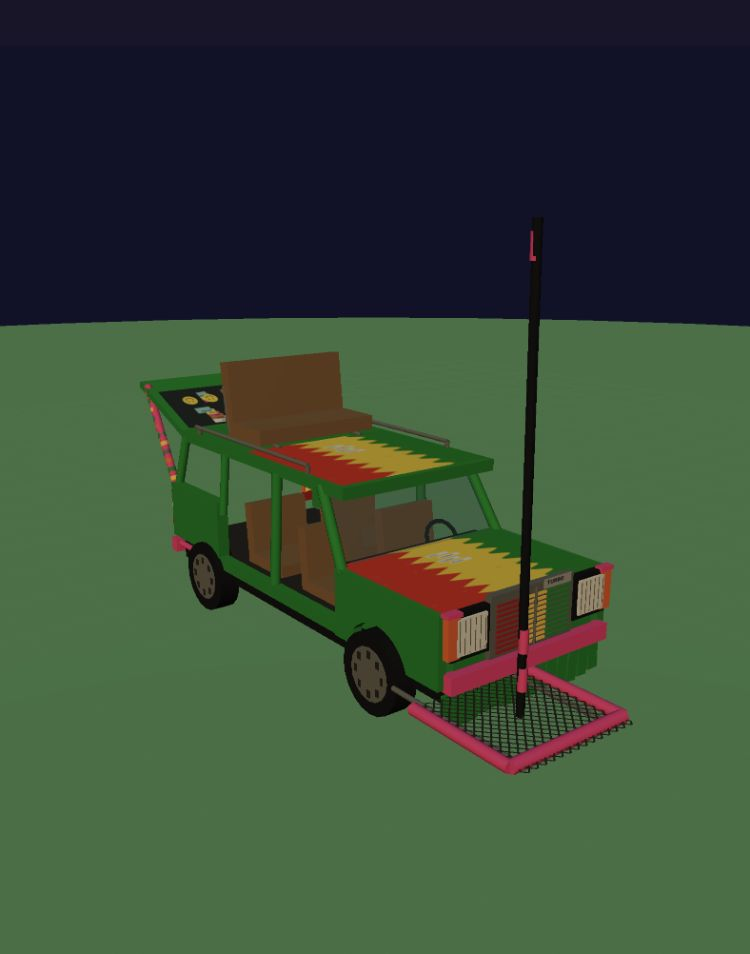
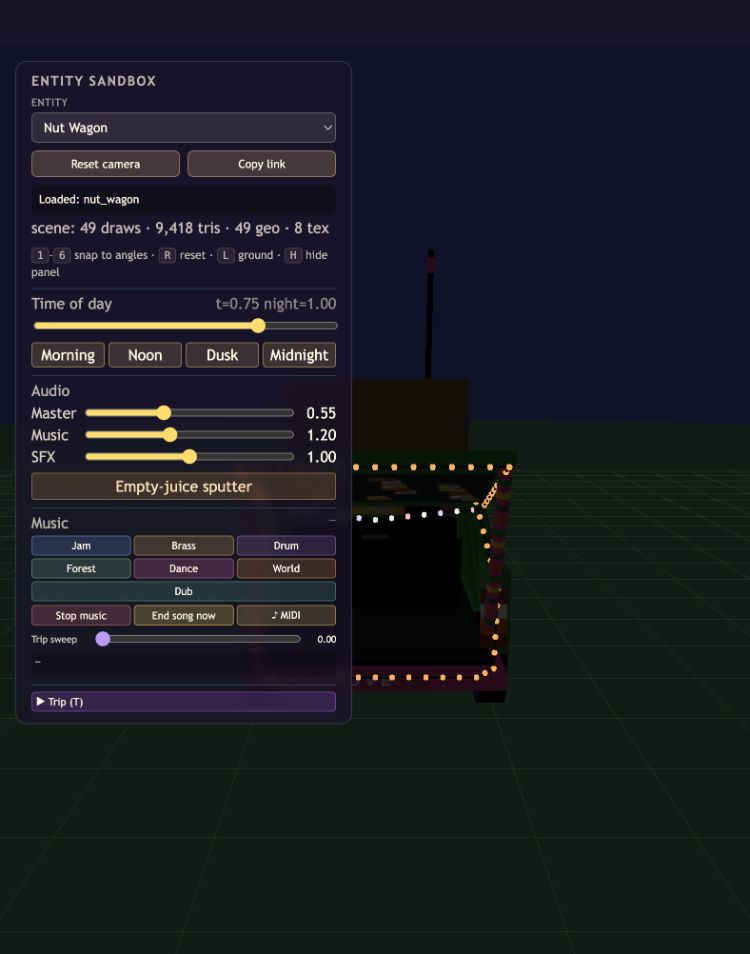
Refine Nut Wagon cabin geometry and add nighttime light strings

diff --git a/src/models/nutWagon.js b/src/models/nutWagon.js
@@ -8,8 +8,8 @@ export const NUT_WAGON_MOUNTS = Object.freeze([
     {name: 'front_passenger', position: [-0.48, 0.77, 0.45], facing: 0, pose: 'seated'},
     {name: 'rear_left', position: [0.48, 0.77, -0.55], facing: 0, pose: 'seated'},
     {name: 'rear_right', position: [-0.48, 0.77, -0.55], facing: 0, pose: 'seated'},
-    {name: 'roof_left', position: [0.38, 2.11, -1.13], facing: 0, pose: 'seated'},
-    {name: 'roof_right', position: [-0.38, 2.11, -1.13], facing: 0, pose: 'seated'},
+    {name: 'roof_left', position: [0.38, 2.11, -1.49], facing: 0, pose: 'seated'},
+    {name: 'roof_right', position: [-0.38, 2.11, -1.49], facing: 0, pose: 'seated'},
     {name: 'cargo_left', position: [0.42, 0.64, -2.02], facing: Math.PI, pose: 'seated'},
     {name: 'cargo_right', position: [-0.42, 0.64, -2.02], facing: Math.PI, pose: 'seated'},
     {name: 'platform', position: [-0.30, 0.47, 3.02], facing: 0, pose: 'standing'},
@@ -97,10 +97,10 @@ function createTemplate() {
     };
     box(root, black, 0, .48, 0, 1.84, .22, 4.7, true);
     box(root, trim, 0, .63, -.64, 1.78, .09, 3.28);
-    box(root, green, 0, .91, 1.66, 1.70, .58, 1.45, true);
-    plane(root, painted, 1.94, 1.46, 0, 1.207, 1.66, -Math.PI / 2);
-    box(root, green, 0, 1.88, -.64, 1.87, .12, 3.18, true);
-    plane(root, painted, 1.80, 1.7, 0, 1.945, .03, -Math.PI / 2);
+    box(root, green, 0, .91, 1.72, 1.70, .58, 1.33, true);
+    plane(root, painted, 1.94, 1.34, 0, 1.207, 1.72, -Math.PI / 2);
+    box(root, green, 0, 1.88, -.84, 1.75, .12, 2.78, true);
+    plane(root, painted, 1.68, 1.30, 0, 1.945, -.14, -Math.PI / 2);
     for (const x of [-.98, .98]) {
         const outline = new THREE.Shape();
         outline.moveTo(.93, .53); outline.lineTo(.93, 1.20);
@@ -113,10 +113,13 @@ function createTemplate() {
         box(root, green, x, .99, -1.82, .13, .64, 1.10, true);
         box(root, green, x, .62, -.1, .10, .14, 2.65);
         beam(root, pink, [x, .56, 1.24], [x, .56, -2.32], .034);
-        beam(root, green, [x, 1.15, 1.0], [x * .92, 1.88, .56], .055);
-        beam(root, green, [x, .65, -.2], [x * .94, 1.85, -.2], .055);
-        beam(root, green, [x, 1.17, -1.25], [x * .94, 1.84, -1.25], .047);
-        beam(root, green, [x, 1.12, -2.36], [x * .92, 1.87, -2.20], .052);
+        beam(root, green, [x, 1.15, 1.0], [x * .88, 1.88, .55], .055);
+        beam(root, green, [x, .65, -.2], [x * .88, 1.85, -.2], .055);
+        beam(root, green, [x, .68, -1.36], [x * .88, 1.84, -.94], .055);
+        beam(root, metal, [x, 1.21, -1.16], [x, 1.21, -2.33], .018);
+        beam(root, metal, [x, 1.21, -1.16], [x * .88, 1.82, -.94], .018);
+        beam(root, metal, [x * .88, 1.82, -.94], [x * .80, 1.82, -2.17], .018);
+        beam(root, green, [x, 1.12, -2.36], [x * .80, 1.87, -2.20], .052);
         beam(root, metal, [x * .9, 2.015, .3], [x * .9, 2.015, -1.98], .023);
         for (const z of [.3, -1.9]) beam(root, metal, [x * .9, 1.94, z], [x * .9, 2.015, z], .025);
         for (const z of [1.55, -1.55]) {
@@ -135,16 +138,19 @@ function createTemplate() {
     windshield.name = 'windshield';
     beam(root, black, [-.85, 1.15, 1.035], [.85, 1.15, 1.035], .025);
     box(root, black, 0, 1.09, .88, 1.77, .12, .24);
-    for (const x of [-.48, .48]) for (const z of [.4, -.65]) {
-        box(root, tan, x, .72, z, .69, .16, .67);
-        const seatBack = box(root, tan, x, 1.02, z - .3, .69, .62, .13); seatBack.rotation.x = -.10;
+    for (const x of [-.48, .48]) for (const z of [.4]) {
+        box(root, black, x, .72, z, .69, .16, .67);
+        const seatBack = box(root, black, x, 1.02, z - .3, .69, .62, .13); seatBack.rotation.x = -.10;
     }
+    box(root, black, 0, .73, -.68, 1.56, .16, .68);
+    box(root, black, 0, 1.02, -.98, 1.56, .58, .12);
+    for (const x of [-.48, .48]) box(root, black, x, 1.39, .1, .34, .27, .12);
     const steering = new THREE.Mesh(new THREE.TorusGeometry(.19, .023, 6, 16), black);
     steering.position.set(.48, 1.12, .7); steering.rotation.x = -.55; root.add(steering);
-    for (const x of [-.53, .53]) beam(root, metal, [x, 1.94, -.76], [x, 2.04, -1.65], .027);
-    box(root, tan, 0, 2.055, -1.17, 1.47, .16, .69, true);
-    const roofBack = box(root, tan, 0, 2.43, -1.51, 1.47, .70, .16, true); roofBack.rotation.x = -.12;
-    for (const x of [-.72, .72]) beam(root, metal, [x, 2.02, -1.48], [x, 2.51, -1.59], .027);
+    for (const x of [-.53, .53]) beam(root, metal, [x, 1.94, -1.12], [x, 2.04, -2.01], .027);
+    box(root, tan, 0, 2.055, -1.53, 1.47, .16, .69, true);
+    const roofBack = box(root, tan, 0, 2.43, -1.87, 1.47, .70, .16, true); roofBack.rotation.x = -.12;
+    for (const x of [-.72, .72]) beam(root, metal, [x, 2.02, -1.84], [x, 2.51, -1.95], .027);
     box(root, metal, 0, .98, 2.41, 1.0, .57, .08);
     for (let i = 0; i < 10; i++) {
         for (let j = 0; j < 3; j++) box(root, [red, yellow, green][j], (j - 1) * .30, .745 + i * .047, 2.461, .29, .024, .015);
@@ -177,7 +183,7 @@ function createTemplate() {
     }, 128, 48)});
     plane(root, badgeMaterial, .35, .09, .28, 1.24, 2.465);
     for (let i = 0; i < 9; i++) {
-        beam(root, trim, [-.63 + i * .16, 2.15, -1.46], [-.63 + i * .16, 2.66, -1.53], .006);
+        beam(root, trim, [-.63 + i * .16, 2.15, -1.82], [-.63 + i * .16, 2.66, -1.89], .006);
     }
     const hatch = new THREE.Group(); hatch.name = 'hatch'; hatch.position.set(0, 1.87, -2.21); root.add(hatch);
     box(hatch, green, 0, -.61, 0, 1.85, 1.24, .075);
@@ -192,12 +198,34 @@ function createTemplate() {
         }
     }
     const rearLabel = material(0xffffff, {map: texture((c, w, h) => {
-        c.fillStyle = '#d5d1ba'; c.fillRect(0, 0, w, h); c.fillStyle = '#292d27'; c.font = '34px serif'; c.fillText('following Corn', 7, 43);
+        c.fillStyle = '#dc5687'; c.fillRect(0, 0, w, h); c.fillStyle = '#d5dbd3'; c.font = 'bold 40px sans-serif'; c.fillText('L O V E', 25, 46);
     }, 256, 64)});
     const label = plane(root, rearLabel, .83, .17, 0, .51, -2.527); label.rotation.y = Math.PI;
     for (const x of [-.99, .99]) {
         const stickerPanel = plane(root, stickers, .70, .29, x, 1.06, -1.86); stickerPanel.rotation.y = Math.sign(x) * Math.PI / 2;
     }
+    const rope = material(0xff762f, {emissive: 0xff4510, emissiveIntensity: .12});
+    rope.userData.nutWagonLight = true;
+    const bulbMats = [0xffdc78, 0xf3508c, 0x62daca, 0x8277ff].map(color => {
+        const m = material(color, {emissive: color, emissiveIntensity: .12});
+        m.userData.nutWagonLight = true;
+        return m;
+    });
+    const lightString = (parent, points, colors, spacing = .13) => {
+        for (let i = 1; i < points.length; i++) {
+            const a = new THREE.Vector3(...points[i - 1]), b = new THREE.Vector3(...points[i]);
+            beam(parent, trim, points[i - 1], points[i], .009);
+            const count = Math.ceil(a.distanceTo(b) / spacing);
+            for (let j = 0; j < count; j++) {
+                const bulb = new THREE.Mesh(new THREE.SphereGeometry(.024, 6, 4), colors[(i + j) % colors.length]);
+                bulb.position.copy(a).lerp(b, j / count); parent.add(bulb);
+            }
+        }
+    };
+    lightString(root, [[-.78, 1.85, -2.25], [-.94, 1.2, -2.42], [-.9, .62, -2.56], [-.77, .55, -2.56], [.77, .55, -2.56], [.9, .62, -2.56], [.94, 1.2, -2.42], [.78, 1.85, -2.25]], [rope]);
+    lightString(hatch, [[-.84, -.05, .06], [-.88, -1.18, .06], [.88, -1.18, .06], [.84, -.05, .06]], [rope]);
+    lightString(root, [[-.76, 1.79, -2.23], [0, 1.71, -2.23], [.76, 1.79, -2.23]], bulbMats, .15);
+    for (const x of [-.87, .87]) lightString(root, [[x, 2.03, -2.0], [x, 2.03, .3]], bulbMats, .18);
     // Static pieces share a small number of material batches; wheels and hatch
     // retain separate local transforms for later movement without rebuilding.
     const batch = parent => {
@@ -232,5 +260,13 @@ export function buildNutWagon({hatchOpen = true} = {}) {
     root.userData.riderMounts = NUT_WAGON_MOUNTS.map(m => ({...m, position: [...m.position]}));
     root.userData.hatch = hatch;
     root.userData.wheels = root.children.filter(c => c.name.startsWith('wheel_'));
+    const lights = new Set();
+    root.traverse(node => { if (node.material?.userData.nutWagonLight) lights.add(node.material); });
+    root.userData.lightMaterials = [...lights];
     return root;
+}
+
+export function setNutWagonNightness(root, nightness) {
+    const intensity = .12 + Math.max(0, Math.min(1, nightness)) * 3.2;
+    for (const material of root.userData.lightMaterials) material.emissiveIntensity = intensity;
 }

diff --git a/verification/nut-wagon/check.html b/verification/nut-wagon/check.html
@@ -3,7 +3,7 @@
 <pre id="result">Checking…</pre>
 <script type="module">
 import * as THREE from 'three';
-import {buildNutWagon, NUT_WAGON_MOUNTS} from '../../src/models/nutWagon.js';
+import {buildNutWagon, NUT_WAGON_MOUNTS, setNutWagonNightness} from '../../src/models/nutWagon.js';
 const checks = [];
 function assert(value, message) { if (!value) throw new Error(message); checks.push(message); }
 try {
@@ -30,7 +30,7 @@ try {
  assert(ga.length === gb.length && ga.every((g, i) => g === gb[i]), 'All mesh buffers shared between instances');
  const bounds = new THREE.Box3().setFromObject(a), size = bounds.getSize(new THREE.Vector3());
  assert(bounds.min.y >= -.001 && size.x > 2 && size.x < 2.6 && size.z > 5.8 && size.z < 7 && size.y > 4 && size.y < 4.5, 'Grounded vehicle with expected width, platform reach and pole height');
- assert(ga.length <= 48 && triangles < 8000 && shadows <= 4, 'Model geometry and shadow budgets');
+ assert(ga.length <= 52 && triangles < 16000 && shadows <= 4, 'Model geometry and shadow budgets');
  const origin = b.userData.wheels[0].rotation.x;
  a.userData.wheels[0].rotation.x += 1;
  assert(b.userData.wheels[0].rotation.x === origin, 'Wheel transforms isolated between instances');
@@ -40,6 +40,10 @@ try {
  assert(disposed === 0, 'Sandbox unload convention preserves pooled buffers');
  const c = buildNutWagon(); const gc = []; c.traverse(n => {if(n.isMesh) gc.push(n.geometry);});
  assert(gc.every((g, i) => g === ga[i]), 'Reload reuses the original resource pool');
+ setNutWagonNightness(c, 0);
+ const dayIntensity = c.userData.lightMaterials[0].emissiveIntensity;
+ setNutWagonNightness(c, 1);
+ assert(c.userData.lightMaterials.length === 5 && c.userData.lightMaterials.every(m => m.emissiveIntensity > dayIntensity), 'Five pooled light colors brighten at night');
  const low = new URLSearchParams(location.search).get('perf') === 'low';
  c.traverse(n => { if(n.isMesh && low && !n.material.isMeshLambertMaterial) throw new Error('Low tier did not use Lambert'); });
  assert(true, low ? 'Low-tier Lambert materials' : 'Standard materials');

diff --git a/sandbox.html b/sandbox.html
@@ -534,7 +534,7 @@
     import {_buildCanoeMeshForSandbox, buildLake, setLakeNightness} from './src/lakes.js';
     import {mulberry32} from './src/rng.js';
     import {buildTent} from './src/models/tent.js';
-    import {buildNutWagon} from './src/models/nutWagon.js';
+    import {buildNutWagon, setNutWagonNightness} from './src/models/nutWagon.js';
     import {buildFoodTruck} from './src/models/foodTruck.js';
     import {buildSugarShack} from './src/models/sugarShack.js';
     import {buildTree} from './src/models/tree.js';
@@ -1365,6 +1365,8 @@ import {buildShrub} from './src/models/shrub.js';
             case 'nut_wagon':
             case 'nut_wagon_closed': {
                 const g = buildNutWagon({hatchOpen: name !== 'nut_wagon_closed'});
+                updateFn = () => setNutWagonNightness(g, tod.nightness);
+                updateFn();
                 scene.add(g);
                 entityRoot = g;
                 currentEntity = g;

diff --git a/verification/nut-wagon/README.md b/verification/nut-wagon/README.md
@@ -25,13 +25,15 @@ The source is Gary's supplied Nut Wagon brief and the seven Downloads images sav
 
 Photographs remain in Gary's Downloads folder and are not bundled as game textures. Painted textures are generated locally with Canvas, using simplified stickers and hand-painted color regions. This is an initial low-poly interpretation, not an exact historical sticker or trim reconstruction.
 
+The three additional references supplied later in this conversation supersede the original rear lettering and clarify the angled cargo opening, dark interior and rear rope lights. The bumper now reads “LOVE,” the rooftop seat is 0.36 m farther back, and the roof front is aligned with the windshield pillars.
+
 ## Model contract
 
 [Source](../../src/models/nutWagon.js) exports `buildNutWagon({hatchOpen = true})` and `NUT_WAGON_MOUNTS`. It returns a ground-anchored Group, facing +Z, with passenger side at -X. Callers own position and rotation.
 
 The template is lazily built once. Static geometry is batched by material and shadow flag, while each wheel and the hatch retain independent transforms. All retained geometry, materials and generated textures are tagged `userData.shared`; ordinary sandbox/world disposal must skip them. Rider mount arrays are copied per instance and contain named model-local seat/standing positions, facing and pose hints. The platform standing mount is offset beside the central pole so the rider does not occupy its base. The nine mounts include the driver and are provisional geometry attachment points, not a promised gameplay capacity.
 
-The hatch-open option controls its initial pose and support visibility. A future animated hatch controller must update both. Music and headlight effects have intentionally not been attached during this model-only pass.
+The hatch-open option controls its initial pose and support visibility. A future animated hatch controller must update both. Music and headlight beams are not attached. `setNutWagonNightness(root, nightness)` drives five pooled emissive colors from the global day/night cycle; the sandbox calls it each frame. The orange rear-opening/hatch string and colored cargo bulbs follow the new rear photograph. The roof-rail string is an additional design choice, not a claim of exact placement in the blurred night photograph. There are no additional real lights or shadow casters.
 
 ## Verification
 
@@ -39,7 +41,7 @@ The hatch-open option controls its initial pose and support visibility. A future
 - `bin/check-importmaps`: passed, 46 source modules, 12 worldgen modules and 31 models across four entry pages. The model cache-buster entry was added to all four pages.
 - `node --check src/models/nutWagon.js` and `git diff --check`: passed.
 - Real-Three checks: independent model/hatch/wheel transforms, open/closed support visibility, independent rider mount data, finite attributes, bounds, shared buffers, unload convention, reload reuse, resource budgets and GPU shader compilation. [Low results](check-low.json), [standard results](check-standard.json).
-- Model: 40 meshes, 4,840 geometry triangles, three shadow casters. Single-frame renderer probe: 41 submissions / 4,842 triangles, including the transparent double-sided windshield pass. These are model costs, not whole-game FPS measurements.
+- Model: 46 meshes, 9,368 geometry triangles, three shadow casters. Single-frame renderer probe: 47 submissions / 9,370 triangles, including the transparent double-sided windshield pass. These are model costs, not whole-game FPS measurements.
 - Bounds with the hatch open: 2.434 m wide, 4.281 m tall including the pole, 6.982 m long including the platform and raised hatch.
 - Full game: Low title screen and world startup verified through the real start button, with no captured console errors or warnings. The model is not yet spawned by that path.
 - Sandbox: Noon, Midnight, rear cargo opening, closed hatch and repeated entity selection inspected. Browser sound was muted at Gary's request.

diff --git a/CHANGELOG.md b/CHANGELOG.md
@@ -8,6 +8,7 @@ All notable changes to Zerble at the Festival. Newest at top. Following [Keep a 
 - **The Nut Wagon has a first model in the entity sandbox.** The photo-based green wagon has open doorways, a painted hood and grille, an offset mesh platform with its tall pole near the platform center, a tan roof seat, and a decorated hatch with open/closed previews. Four wheel transforms and nine provisional rider mounts prepare the model for later behavior work. Geometry and materials are pooled across instances; the model has 40 meshes, 4,840 triangles and three shadow casters. It does not spawn in the festival yet. [Model checks and saved views](verification/nut-wagon/README.md).
 
 ### Changed
+- **The Nut Wagon follows the new rear reference.** The roof ends at the windshield instead of overhanging it, the hood stops at its base, the roof seat sits farther back, and angled rear pillars outline the quarter windows and tapered cargo opening. The cabin has dark front seats and a continuous rear bench. Rear bumper lettering now reads “LOVE.” Orange rope bulbs trace the rear opening and raised hatch, with colored bulbs across the opening and an added roof-rail string; pooled emissive materials brighten at night without adding shadow-casting lights.
 - **The puppet parade is a handmade lantern procession.** A tall bent-neck heron, a red dragon carried by three people, a curled seahorse, a ribbon jellyfish, and small moon/star lanterns replace the six generic floating heads. Matte paper, visible ribs, and night illumination follow the supplied Street Creature references; carrier hands and moving support poles stay connected. The dragon has longer parade gaps and three ground-level collision circles, while the existing travel, honk, and damage policy stays in place. Named sandbox views and real-Three geometry/rig/controller checks accompany [saved Noon/Midnight renders and verification](verification/puppet-parade/README.md). Six models submit 176 meshes versus the original 180, with more triangles; physical-device performance is not yet measured.
 
 ## 2026-10-11

diff --git a/DEBUGGING.md b/DEBUGGING.md
@@ -514,7 +514,7 @@ http://127.0.0.1:8765/sandbox.html?entity=<name>
   views, and `6` for the rear three-quarter view; the heron opens from a
   forward three-quarter camera so its beak is visible. Midnight is `t=0.75`,
   Noon is `t=0.30`.
-- **Nut Wagon model preview:** `?entity=nut_wagon` opens the doorless wagon with its hatch raised; `?entity=nut_wagon_closed` checks the shut hatch and hidden supports. The model exposes `userData.hatch`, four `userData.wheels`, and nine independent provisional `userData.riderMounts`. It has no driving, boarding, riders, or music controller yet. Open `verification/nut-wagon/check.html?perf=low` or `?perf=mid` on the same server for real-Three geometry, pooling, transform-isolation, bounds, and shader checks. [Saved views and results](verification/nut-wagon/README.md).
+- **Nut Wagon model preview:** `?entity=nut_wagon` opens the doorless wagon with its hatch raised; `?entity=nut_wagon_closed` checks the shut hatch and hidden supports. The model exposes `userData.hatch`, four `userData.wheels`, and nine independent provisional `userData.riderMounts`. Its pooled light strings follow the sandbox day/night cycle through `setNutWagonNightness`. It has no driving, boarding, riders, or music controller yet. Open `verification/nut-wagon/check.html?perf=low` or `?perf=mid` on the same server for real-Three geometry, pooling, transform-isolation, bounds, and shader checks. [Saved views and results](verification/nut-wagon/README.md).
 - **Music panel** drives any stage genre (jam / brass / drum / forest / dance /
   world / dub), an **"End song now"** button (`Sound._debugEndSong()`), a live
   **song-state readout**, and a **trip-sweep** slider (0→1) that drives the MIDI
